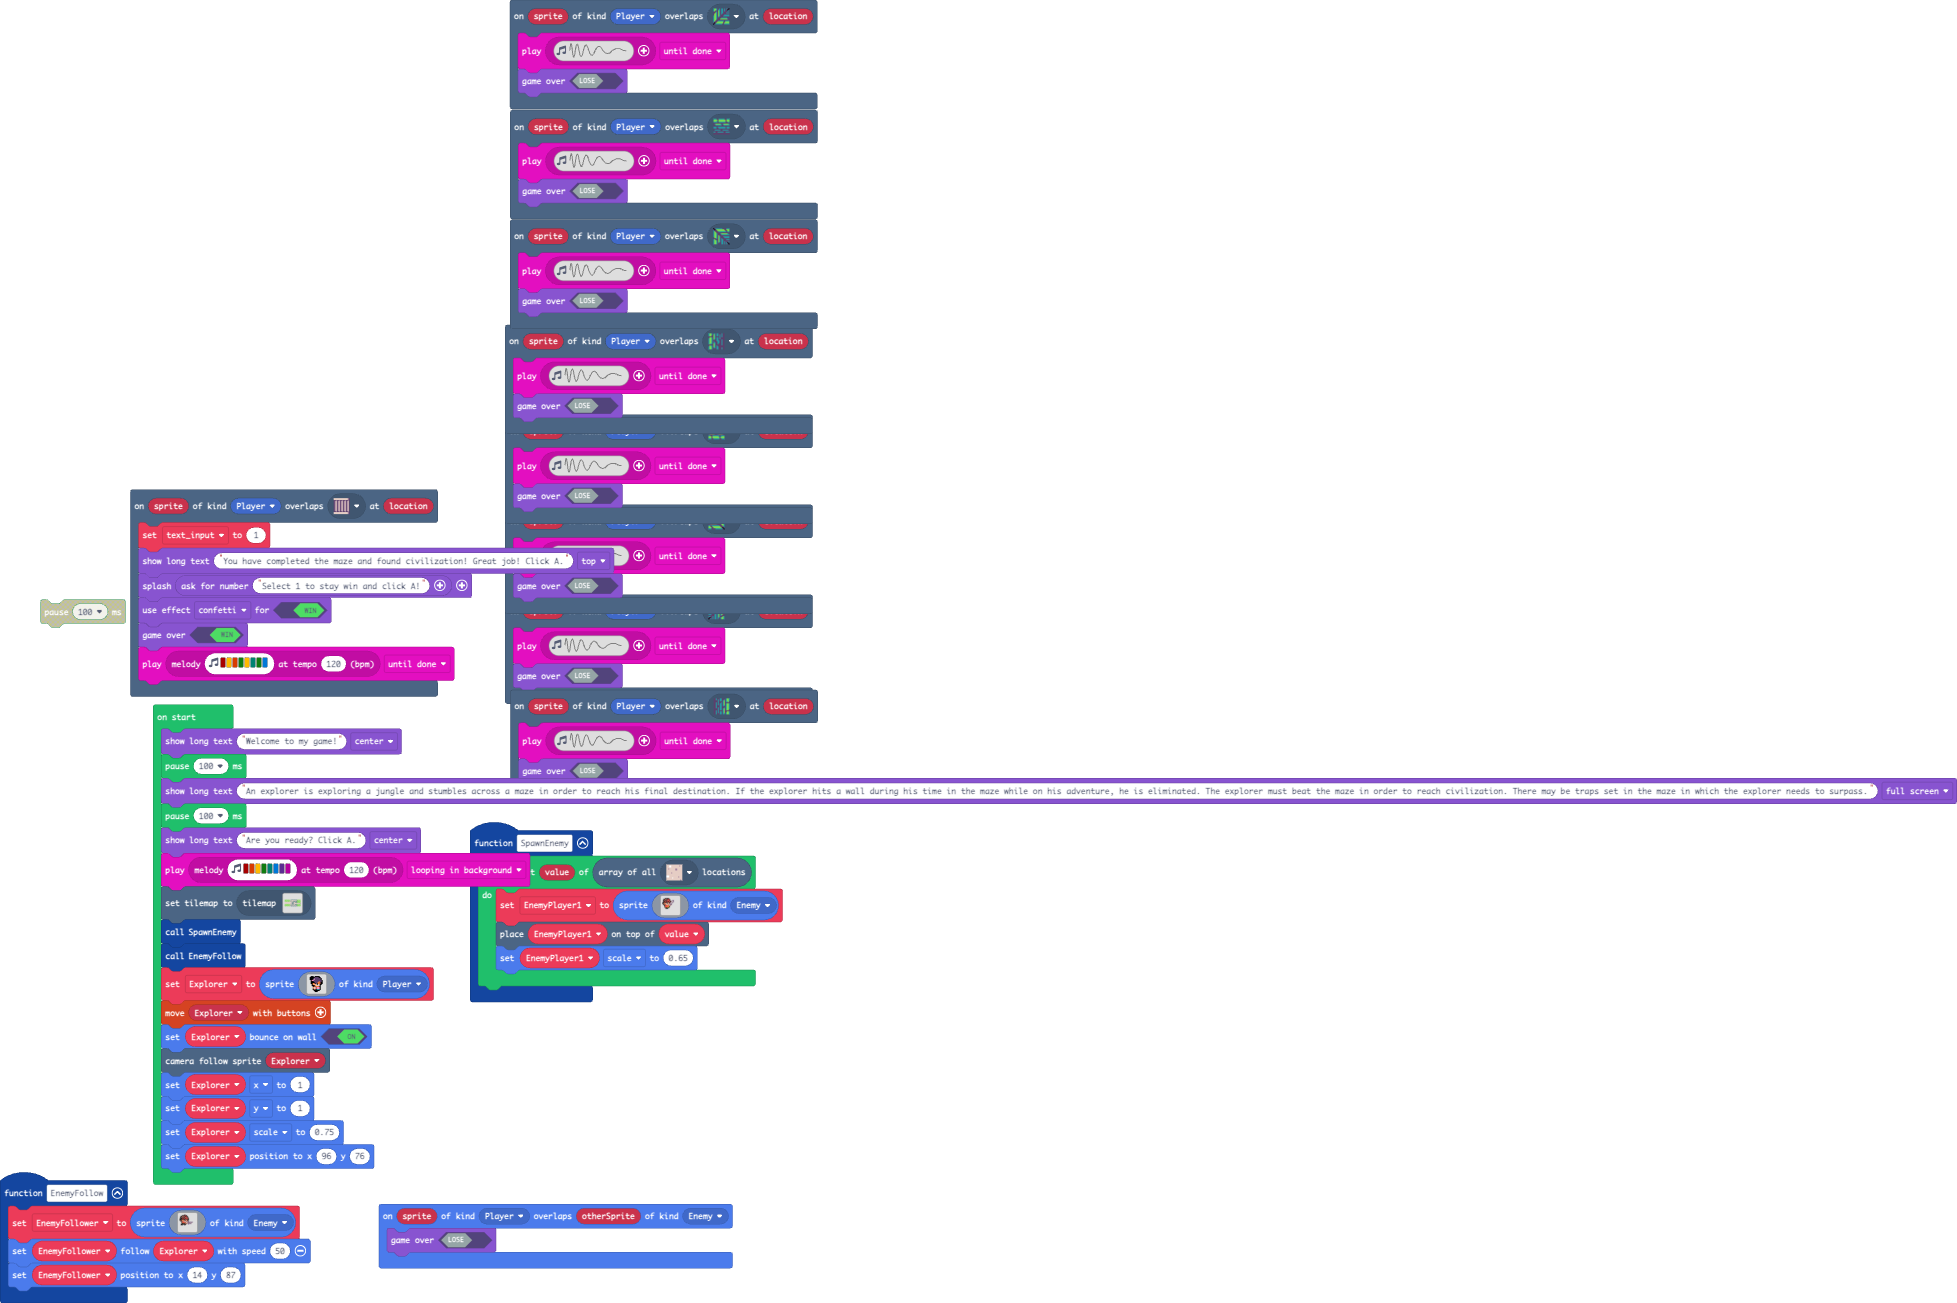
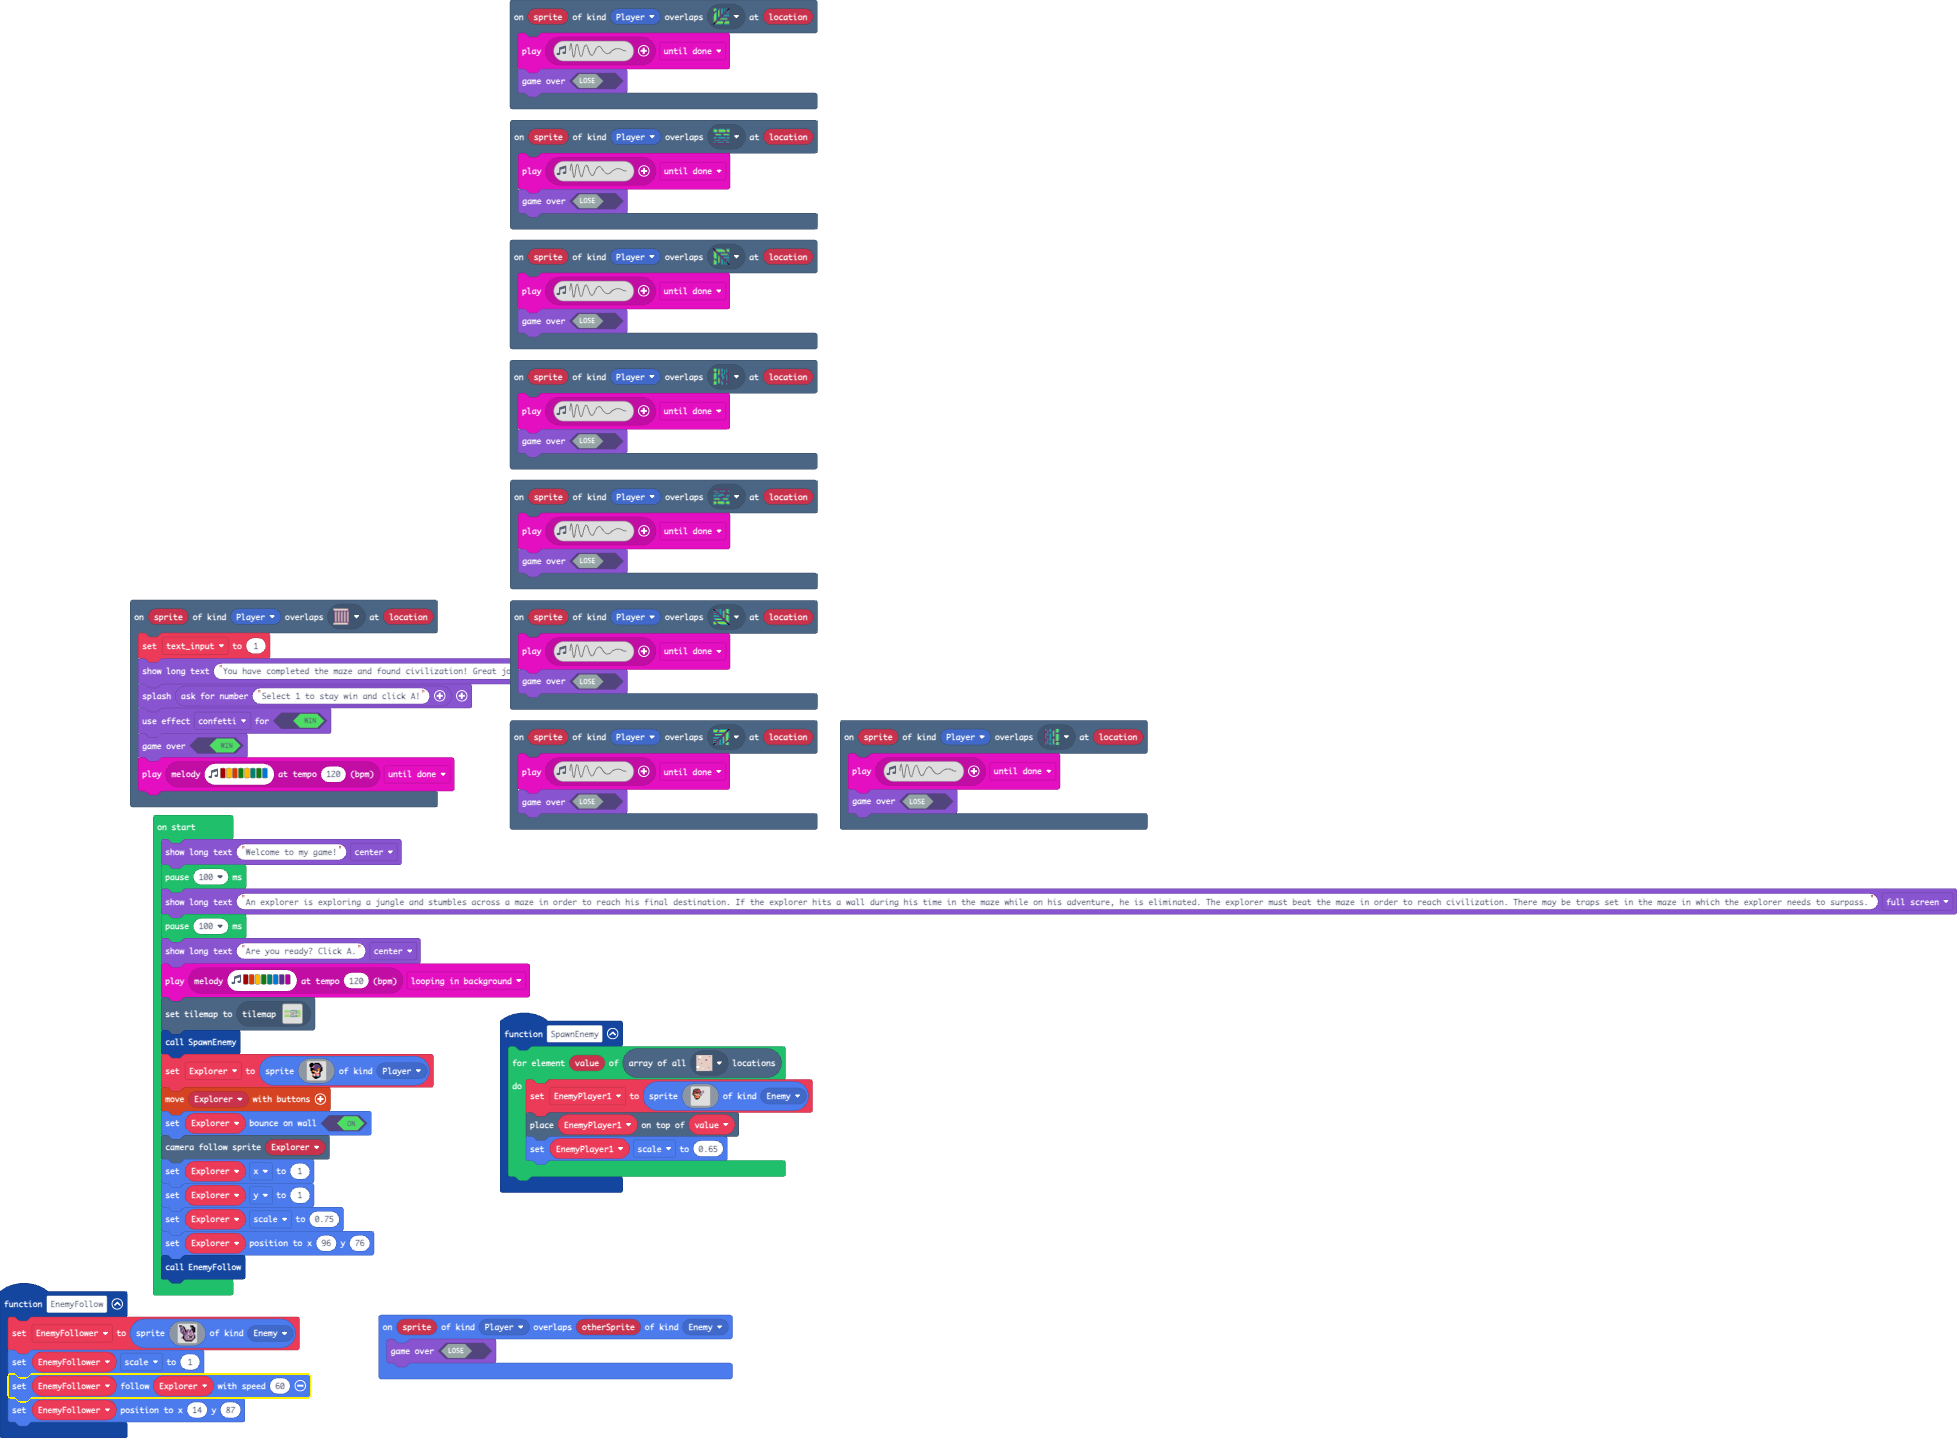
Update main.blocks, main.ts

Changed region(s): [[0.0, 0.0, 1.0, 1.0]]

diff --git a/main.ts b/main.ts
@@ -64,32 +64,25 @@ scene.onOverlapTile(SpriteKind.Player, sprites.dungeon.greenOuterNorthEast, func
 })
 function EnemyFollow () {
     EnemyFollower = sprites.create(img`
-        .......ff...............
-        ....ffff2ff.............
-        ..ffeeeef2ff............
-        .ffeeeeef22ff...........
-        .feeeeffeeeef...........
-        .fffffee2222ef..........
-        fffe222ffffe2f..........
-        ffffffffeeefff..........
-        fefe44ebf44eef..........
-        .fee4d4bfddef...........
-        ..feee4dddee.c..........
-        ...f2222eeddeccccccc....
-        ...f444e44ddecddddd.....
-        ...fffffeeee.ccccc......
-        ..ffffffff...c..........
-        ..fff..ff...............
-        ........................
-        ........................
-        ........................
-        ........................
-        ........................
-        ........................
-        ........................
-        ........................
+        f f f . . . . . . . . f f f . . 
+        c b b c f . . . . . . c c f f . 
+        . c b b c f . . . . . . c c f f 
+        . c c c b f . . . . . . c f c f 
+        . c c b b c f . c c . c c f f f 
+        . c b b c b f c c 3 c c 3 c f f 
+        . c b c c b f c b 3 c b 3 b f f 
+        . . c c c b b c b b b b b b c . 
+        . . . c c c c b b 1 b b b 1 c . 
+        . . . . c c b b b b b b b b b c 
+        . . . . f b b b b c b b b c b c 
+        . . . c f b b b b 1 f f f 1 b f 
+        . . c c f b b b b b b b b b b f 
+        . . . . f c b b b b b b b b f . 
+        . . . . . f c b b b b b b f . . 
+        . . . . . . f f f f f f f . . . 
         `, SpriteKind.Enemy)
-    EnemyFollower.follow(Explorer, 50)
+    EnemyFollower.scale = 1
+    EnemyFollower.follow(Explorer, 60)
     EnemyFollower.setPosition(14, 87)
 }
 scene.onOverlapTile(SpriteKind.Player, sprites.dungeon.greenOuterSouth0, function (sprite, location) {
@@ -115,7 +108,6 @@ game.showLongText("Are you ready? Click A.", DialogLayout.Center)
 music.play(music.stringPlayable("C5 B A G F E D C ", 120), music.PlaybackMode.LoopingInBackground)
 tiles.setCurrentTilemap(tilemap`level2`)
 SpawnEnemy()
-EnemyFollow()
 Explorer = sprites.create(img`
     . f f f . f f f f f . . . . 
     f f f f f c c c c f f . . . 
@@ -141,3 +133,4 @@ Explorer.x = 1
 Explorer.y = 1
 Explorer.scale = 0.75
 Explorer.setPosition(96, 76)
+EnemyFollow()
